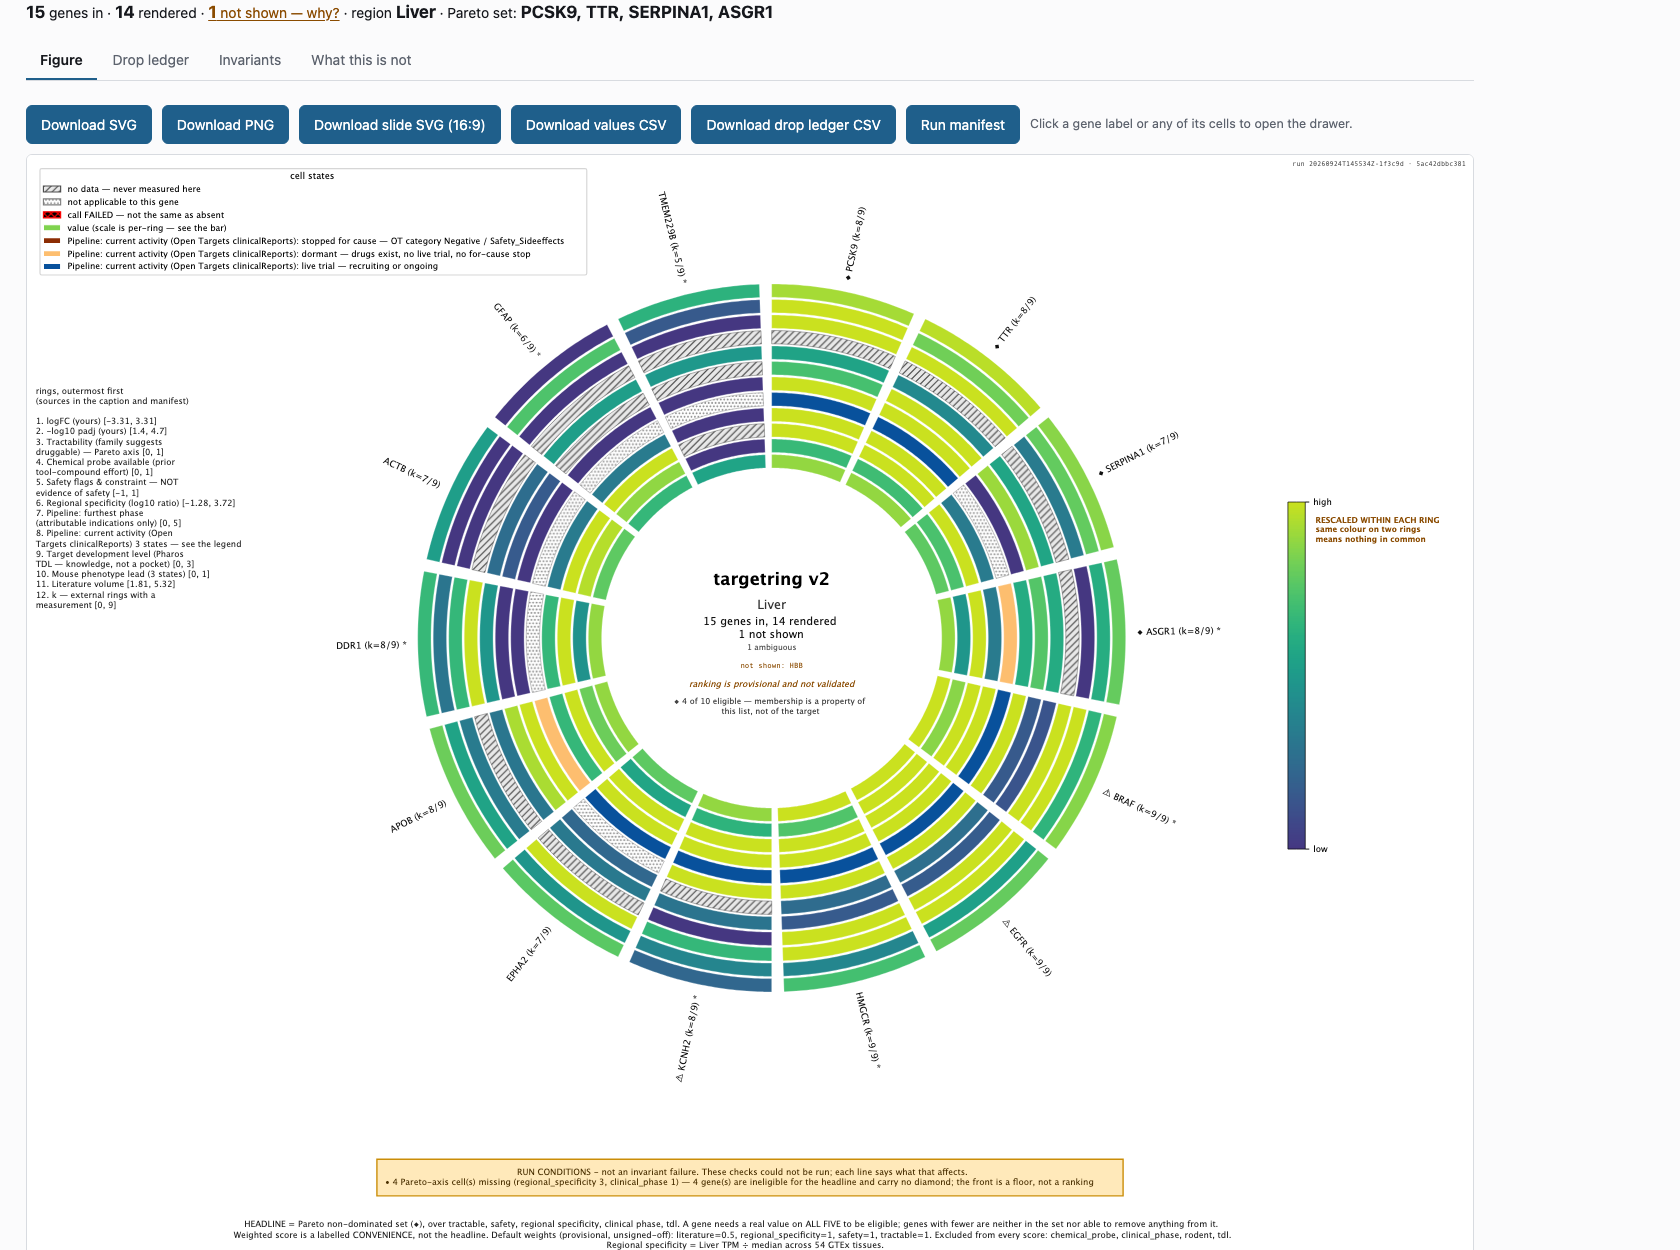
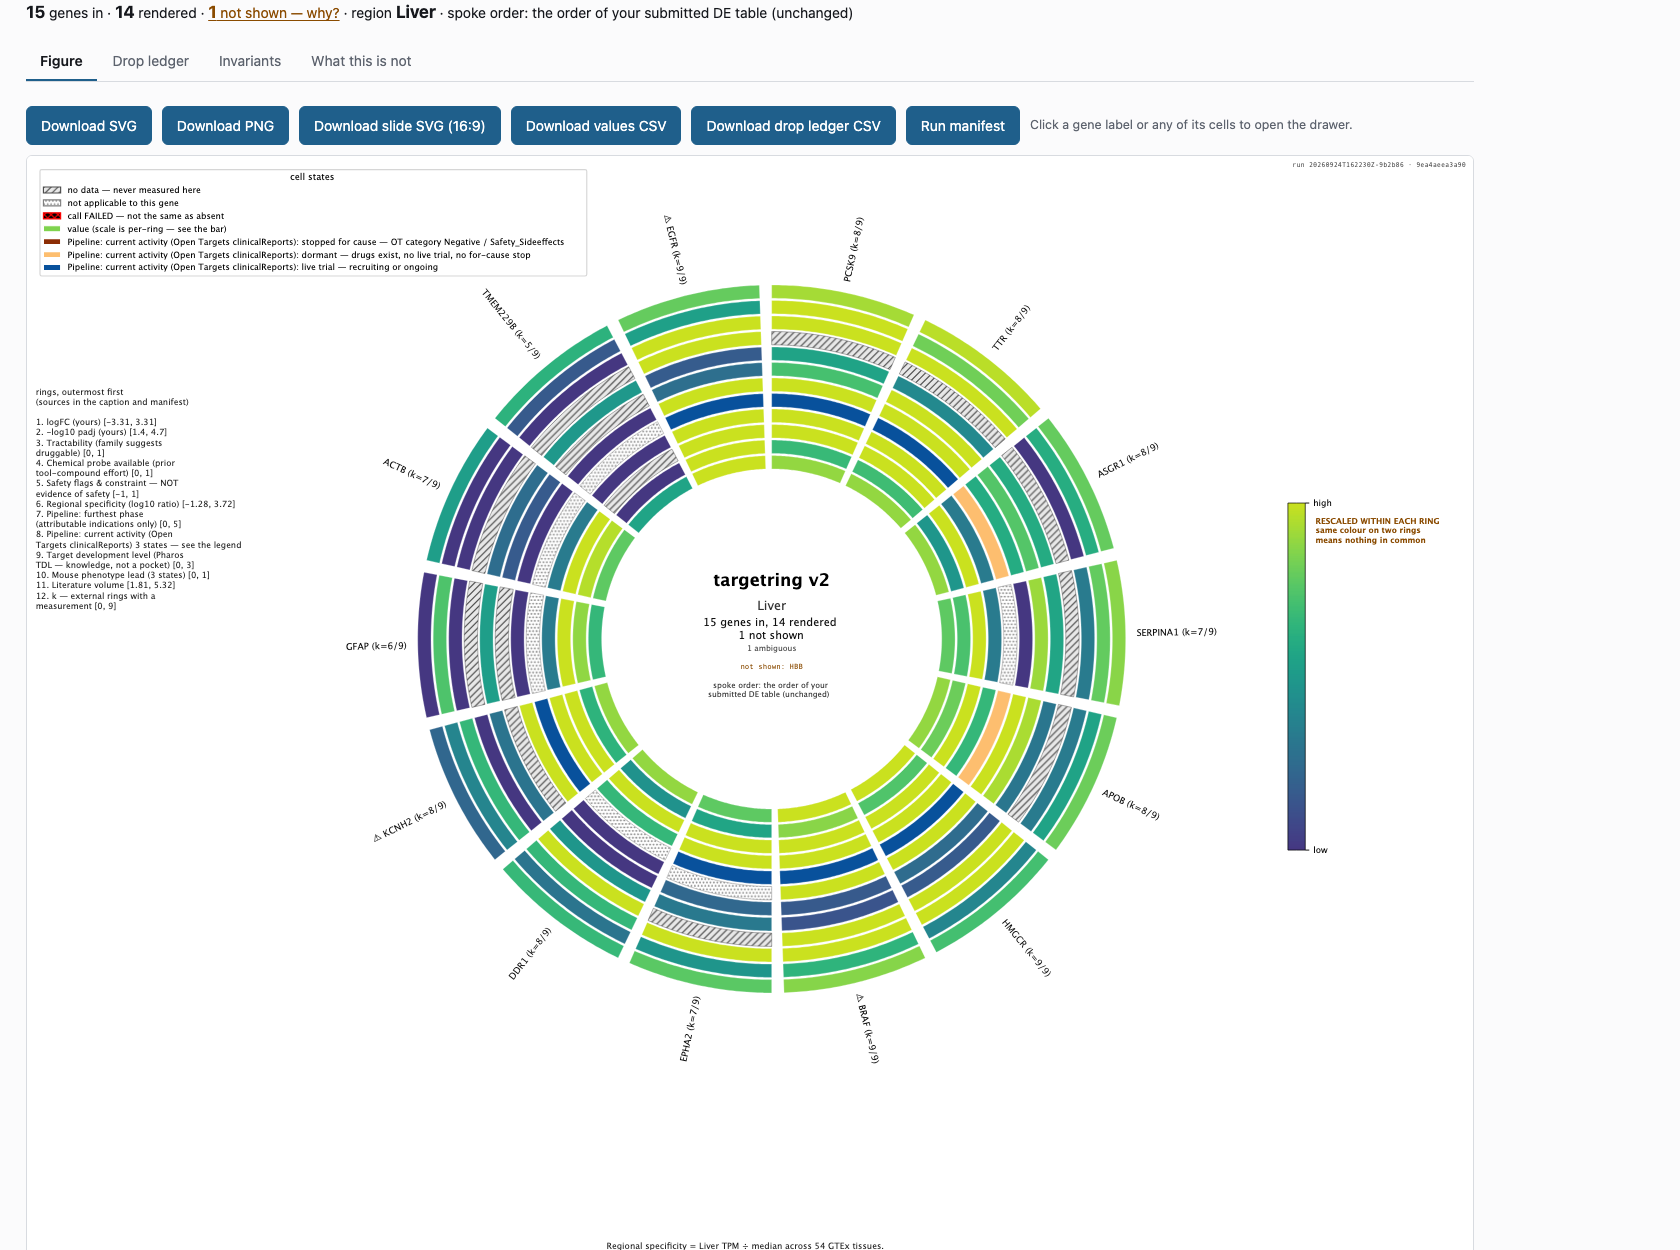
I7 checks the spoke order in the artefact, not just the sentence
The re-pointed I7 asserted that the figure *states* its ordering rule and that
the stated rule is the one the run was given. Nothing asserted the spokes were
actually in that order, so a regression in `order_for_figure` would have drawn a
figure that said "alphabetical" over something else and passed every invariant.

I7 now re-derives the expected order from `values.csv` -- the drawn values, the
way I1 and I3 take theirs -- and compares. Alphabetical is checkable from the
artefact alone; the submitted order and the single-ring orders use the submitted
sequence, which is also their documented tie-break. Three tests, one per
ordering, including a figure deliberately drawn backwards under an alphabetical
caption.

Screenshots retaken on this code with the repo cache moved aside to
`cache.v25-pre` -- nothing deleted. Three new: `8-filtered-figure.png`,
`8b-filtered-ledger.png`, `8c-drawer-kept-not-filtered.png`.

diff --git a/targetring/invariants.py b/targetring/invariants.py
@@ -225,7 +225,8 @@ def check_all(
     rep.results.append(_i4_accounting(input_count, rendered_count, ledger_count))
     rep.results.append(_i5_literature(literature_audit))
     rep.results.append(_i6_regression(regression))
-    rep.results.append(_i7_figure_states_what_it_did(figure_claims, svg_path))
+    rep.results.append(
+        _i7_figure_states_what_it_did(figure_claims, svg_path, csv_rows))
     return rep
 
 
@@ -427,8 +428,52 @@ def _i6_regression(reg: dict[str, Any] | None) -> Result:
     return Result("I6", "five-ID regression", "FAIL", reg.get("detail", "failed"))
 
 
+def _spokes_follow_the_stated_order(claims: dict[str, Any],
+                                    csv_rows: Sequence[dict[str, Any]]) -> str:
+    """Re-derive the spoke order from the drawn values and compare.
+
+    The data comes out of the CSV of what was actually drawn, the way I1 and I3
+    take theirs, so this survives a regression in the ordering code rather than
+    asking that code whether it did its job.
+    """
+    from .order import ALPHABETICAL, SUBMITTED, is_ring_ordering, order_for_figure
+    from .states import Cell
+
+    ordering = claims.get("ordering") or SUBMITTED
+    submitted = list(claims.get("submitted_order") or ())
+    drawn: dict[int, str] = {}
+    cells: dict[str, dict[str, Cell]] = {}
+    for r in csv_rows:
+        drawn.setdefault(int(r["spoke_index"]), r["gene"])
+        ring = cells.setdefault(r["ring"], {})
+        ring[r["gene"]] = Cell(r["state"],
+                               float(r["value"]) if r["value"] != "" else None, "")
+    got = [drawn[i] for i in sorted(drawn)]
+    if not got:
+        return ""
+
+    if ordering == SUBMITTED:
+        if not submitted:
+            return ""
+        want = [g for g in submitted if g in set(got)]
+    elif ordering == ALPHABETICAL:
+        want = sorted(got)
+    elif is_ring_ordering(ordering):
+        # The submitted order is the documented tie-break, so it has to be the
+        # input here too or a legitimate tie reads as a mis-ordering.
+        base = [g for g in submitted if g in set(got)] or got
+        want = order_for_figure(base, cells, ordering)
+    else:
+        return ""
+    if want != got:
+        return (f"the figure says its spokes are in {ordering!r} order and they are not: "
+                f"drawn {got[:6]}, expected {want[:6]} (re-derived from values.csv)")
+    return ""
+
+
 def _i7_figure_states_what_it_did(
-    claims: dict[str, Any] | None, svg_path: Path | None
+    claims: dict[str, Any] | None, svg_path: Path | None,
+    csv_rows: Sequence[dict[str, Any]] = (),
 ) -> Result:
     """COUNCIL V5, and v2.5 item 2 — the figure states what it actually did.
 
@@ -446,9 +491,13 @@ def _i7_figure_states_what_it_did(
 
     1. **No headline marker survives the ranking.** Nothing is ranked, so a ◆
        anywhere in the artefact is a claim with nothing behind it.
-    2. **The spoke order is stated on the figure**, and the sentence printed is
-       the ordering the run actually used. An order that carries meaning and is
-       not stated is the same defect as an unlabelled colour scale.
+    2. **The spoke order is stated on the figure**, the sentence printed is the
+       ordering the run used, and **the spokes are actually in that order** --
+       re-derived from the CSV of drawn values, so a figure that says
+       "alphabetical" and draws something else fails here rather than being
+       believed. An order that carries meaning and is not stated is the same
+       defect as an unlabelled colour scale; an order that is stated wrongly is
+       worse.
     3. **Every active threshold filter is named on the figure.** A filtered plot
        that does not say so reads as the whole submitted set -- a plausible wrong
        figure, which AGENTS.md calls the worst possible output.
@@ -486,6 +535,10 @@ def _i7_figure_states_what_it_did(
             f"the run ordered the spokes by {ordering!r} and the figure does not say so "
             f"anywhere in its own text.")
 
+    wrong = _spokes_follow_the_stated_order(claims, csv_rows)
+    if wrong:
+        return Result("I7", "the figure states what it did", "FAIL", wrong)
+
     missing = [f for f in (claims.get("filter_notes") or []) if f not in body]
     if missing:
         return Result(
@@ -500,7 +553,7 @@ def _i7_figure_states_what_it_did(
     return Result(
         "I7", "the figure states what it did", "PASS",
         f"no headline marker survives the ranking; the spoke order is printed on the "
-        f"figure ({ordering}); "
+        f"figure ({ordering}) and the spokes follow it; "
         + (f"{n_filters} active filter(s) named on it, {n_filtered} gene(s) filtered into "
            f"the ledger and {n_marked} kept and marked for having no data on a filtered ring"
            if n_filters else "no threshold filter was active"))

diff --git a/tests/test_invariants.py b/tests/test_invariants.py
@@ -70,6 +70,7 @@ class TestPalette:
 def _claims(res=None, **over):
     """The claims I7 checks, built the way run.py builds them."""
     return {
+        "ordering": "submitted", "submitted_order": list(GENES),
         "ordering_note": res.ordering_note if res is not None else ORDER_NOTE,
         "filter_notes": list(res.filter_notes) if res is not None else [],
         "n_filtered": 0, "n_kept_unevaluated": 0, **over,
@@ -423,6 +424,52 @@ class TestI7TheFigureStatesWhatItDid:
         assert i7.outcome == "PASS", i7.detail
         assert "1 active filter(s) named on it" in i7.detail
         assert "3 gene(s) filtered into the ledger" in i7.detail
+
+    def test_fails_when_the_spokes_are_not_in_the_order_the_figure_claims(
+            self, tmp_path: Path) -> None:
+        """The order is re-derived from values.csv, so a figure that *says*
+        alphabetical and draws something else fails here instead of being
+        believed. GENES is already alphabetical, so this draws it backwards
+        under an alphabetical caption."""
+        note = "spoke order: alphabetical by gene symbol"
+        backwards = list(reversed(GENES))
+        spec = _spec()
+        res = render(genes=backwards, cells_by_ring=spec, stats=gene_stats(spec),
+                     region="Lung", out_svg=tmp_path / "w.svg", input_count=4,
+                     rendered_count=4, ledger_counts={}, ordering_note=note)
+        rep = check_all(svg_path=tmp_path / "w.svg", csv_rows=res.csv_rows,
+                        gene_order=backwards, input_count=4, rendered_count=4,
+                        ledger_count=0,
+                        figure_claims=_claims(res, ordering="alphabetical",
+                                              submitted_order=backwards))
+        i7 = next(r for r in rep.results if r.id == "I7")
+        assert i7.outcome == "FAIL"
+        assert "spokes are in 'alphabetical' order and they are not" in i7.detail
+
+    def test_the_order_check_reads_the_drawn_values_not_the_ordering_code(
+            self, rendered) -> None:
+        """A submitted order that disagrees with what was drawn is caught even
+        though `order_for_figure` is not consulted for it."""
+        i7 = self._run(rendered, _claims(submitted_order=list(reversed(GENES))))
+        assert i7.outcome == "FAIL"
+        assert "re-derived from values.csv" in i7.detail
+
+    def test_a_single_ring_order_is_checked_against_that_rings_values(
+            self, tmp_path: Path) -> None:
+        from targetring.order import RING_PREFIX, order_for_figure
+        spec = _spec()
+        want = order_for_figure(GENES, spec, f"{RING_PREFIX}regional_specificity")
+        note = ("spoke order: by the 'regional_specificity' ring, best first; "
+                "genes with no value on it are last")
+        res = render(genes=want, cells_by_ring=spec, stats=gene_stats(spec),
+                     region="Lung", out_svg=tmp_path / "r.svg", input_count=4,
+                     rendered_count=4, ledger_counts={}, ordering_note=note)
+        claims = _claims(res, ordering=f"{RING_PREFIX}regional_specificity")
+        rep = check_all(svg_path=tmp_path / "r.svg", csv_rows=res.csv_rows,
+                        gene_order=want, input_count=4, rendered_count=4,
+                        ledger_count=0, figure_claims=claims)
+        assert next(r for r in rep.results if r.id == "I7").outcome == "PASS"
+        assert want != list(GENES), "otherwise this test proves nothing"
 
     def test_absent_claims_are_not_evaluated_not_passed(self, rendered) -> None:
         i7 = self._run(rendered, None)

diff --git a/scripts/screenshots.py b/scripts/screenshots.py
@@ -68,9 +68,18 @@ def run_table(page, which: str, region: str = "Lung") -> None:
     _go(page, region)
 
 
-def run_text(page, table: str, region: str) -> None:
+def run_text(page, table: str, region: str, filters: str = "",
+             drop_no_data: bool = False, ordering: str = "") -> None:
     page.goto(APP, wait_until="networkidle")
     page.fill("#table", table)
+    # v2.5. The filter box and the spoke-order select are part of a run now, so
+    # a screenshot of a filtered figure is driven the way a user drives it.
+    if filters:
+        page.fill("#filters", filters)
+    if drop_no_data:
+        page.check("#drop-no-data")
+    if ordering:
+        page.select_option("#ordering", ordering)
     _go(page, region)
 
 
@@ -156,6 +165,30 @@ def main() -> int:
         top(page)
         page.wait_for_timeout(400)
         shot(page, "7b-ring-key-sources.png")
+
+        # 3d. v2.5 item 2: the same list, filtered. Two thresholds, one of them
+        #     on a ring several of these genes have no value for, so the figure
+        #     carries both outcomes at once -- genes removed into the ledger and
+        #     genes kept and marked ~ because the filter could not be evaluated.
+        print("5d/10 the council list with two threshold filters active")
+        run_text(page, COUNCIL_LIST, "Liver",
+                 filters="literature >= 2\nregional_specificity >= 0.5")
+        top(page)
+        shot(page, "8-filtered-figure.png")
+        page.click('.tab[data-tab="ledger"]')
+        top(page)
+        shot(page, "8b-filtered-ledger.png")
+        page.click('.tab[data-tab="figure"]')
+        marked = page.evaluate(
+            "Object.entries(RUN.genes).find(([, g]) => g.unfiltered_rings.length)?.[0]")
+        if marked:
+            page.evaluate(f"openDrawer({marked!r})")
+            page.wait_for_selector("#drawer:not([hidden])")
+            page.wait_for_timeout(700)
+            shot(page, "8c-drawer-kept-not-filtered.png")
+            page.click("#drawer-close")
+        else:
+            print("  (no gene was kept-unevaluated on this run; 8c not retaken)")
 
         # 4. The deliberately broken input: counts + drop ledger.
         print("6/8 broken input, drop ledger")

diff --git a/targetring/run.py b/targetring/run.py
@@ -501,6 +501,11 @@ async def run_analysis(
         regression=regression,
         literature_audit=lit_audit,
         figure_claims={
+            "ordering": ordering,
+            # The order his table arrived in, which is both the default ordering
+            # and the documented tie-break for the others. I7 re-derives the
+            # expected spoke order from this and the drawn values.
+            "submitted_order": genes,
             "ordering_note": fig_result.ordering_note,
             "filter_notes": list(fig_result.filter_notes),
             "n_filtered": len(outcome.drops),
